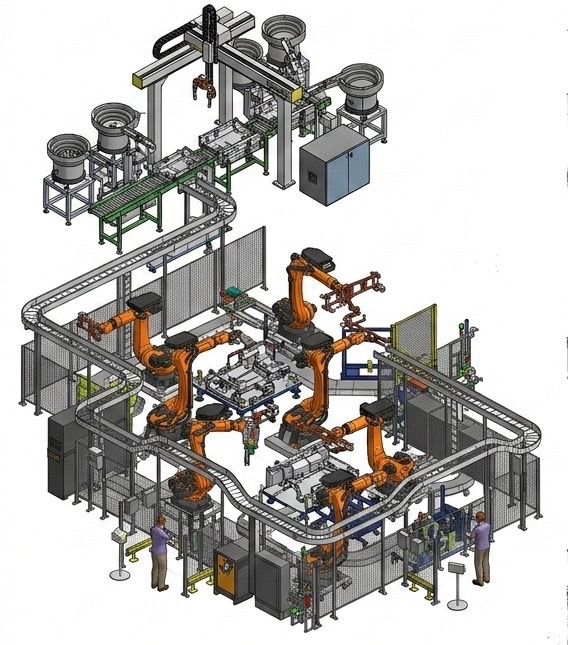
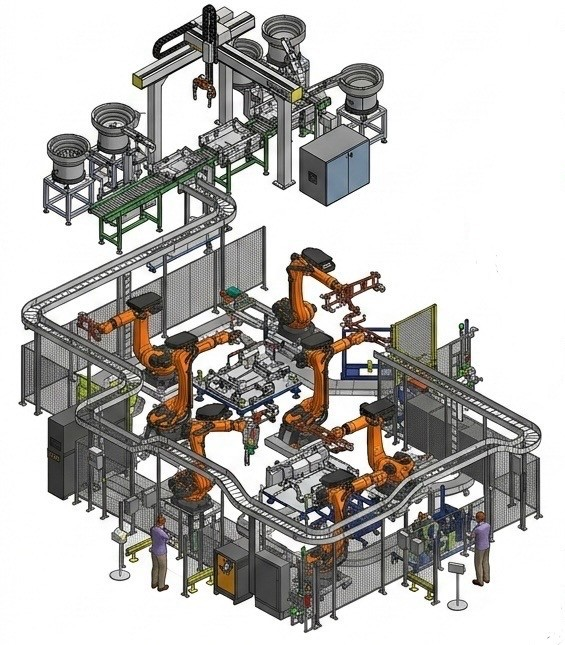
INTERACTION

diff --git a/src/assets/shared-styles.css b/src/assets/shared-styles.css
@@ -366,7 +366,7 @@
 .machine-background {
   position: relative;
   width: 100%;
-  max-width: 1200px;
+  /* max-width: 1200px; */
   background-size: 100% 100%;
   background-position: center;
   background-repeat: no-repeat;
